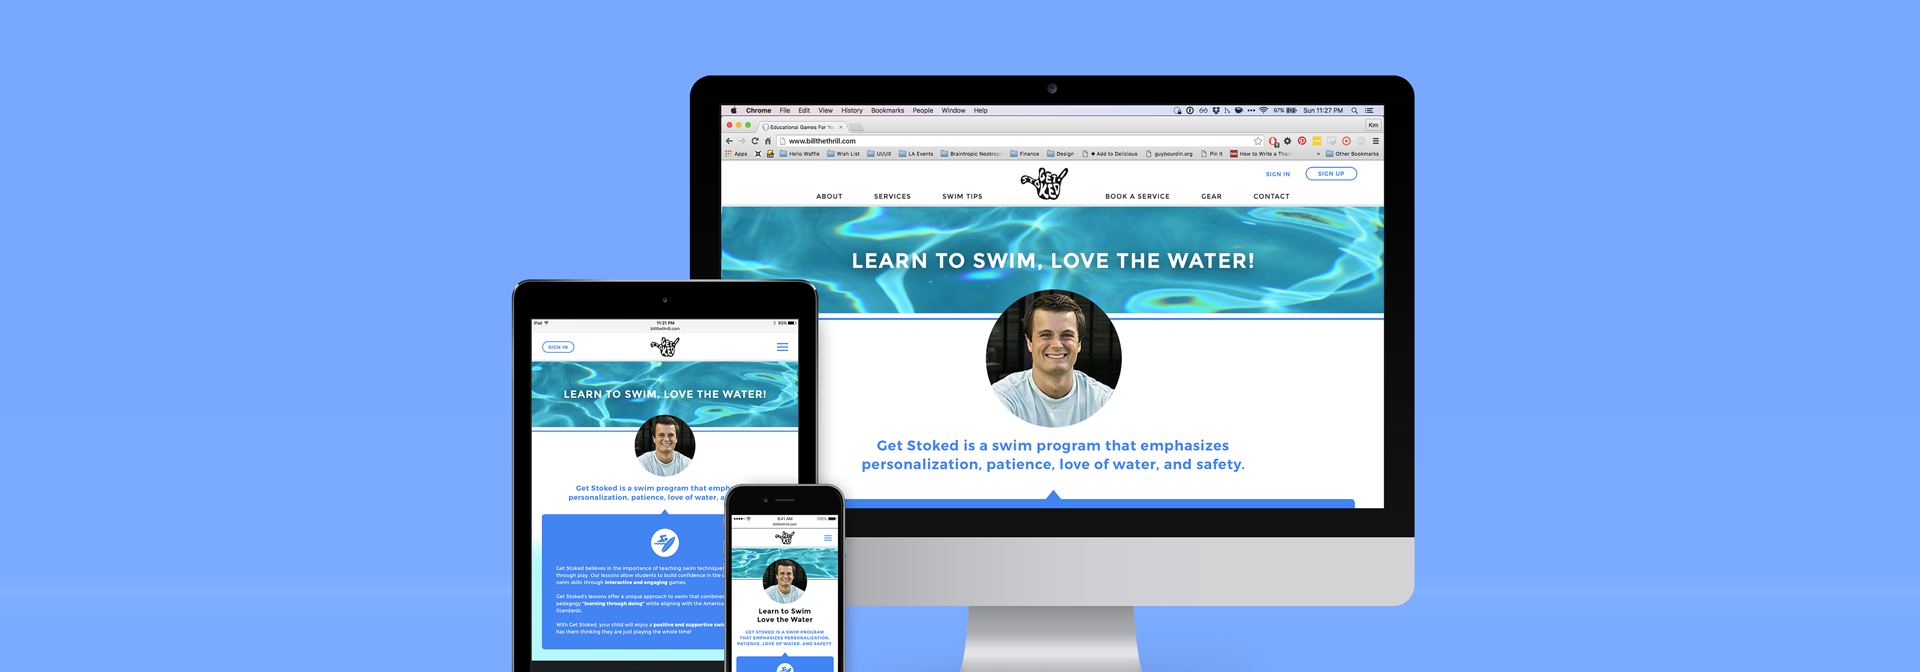
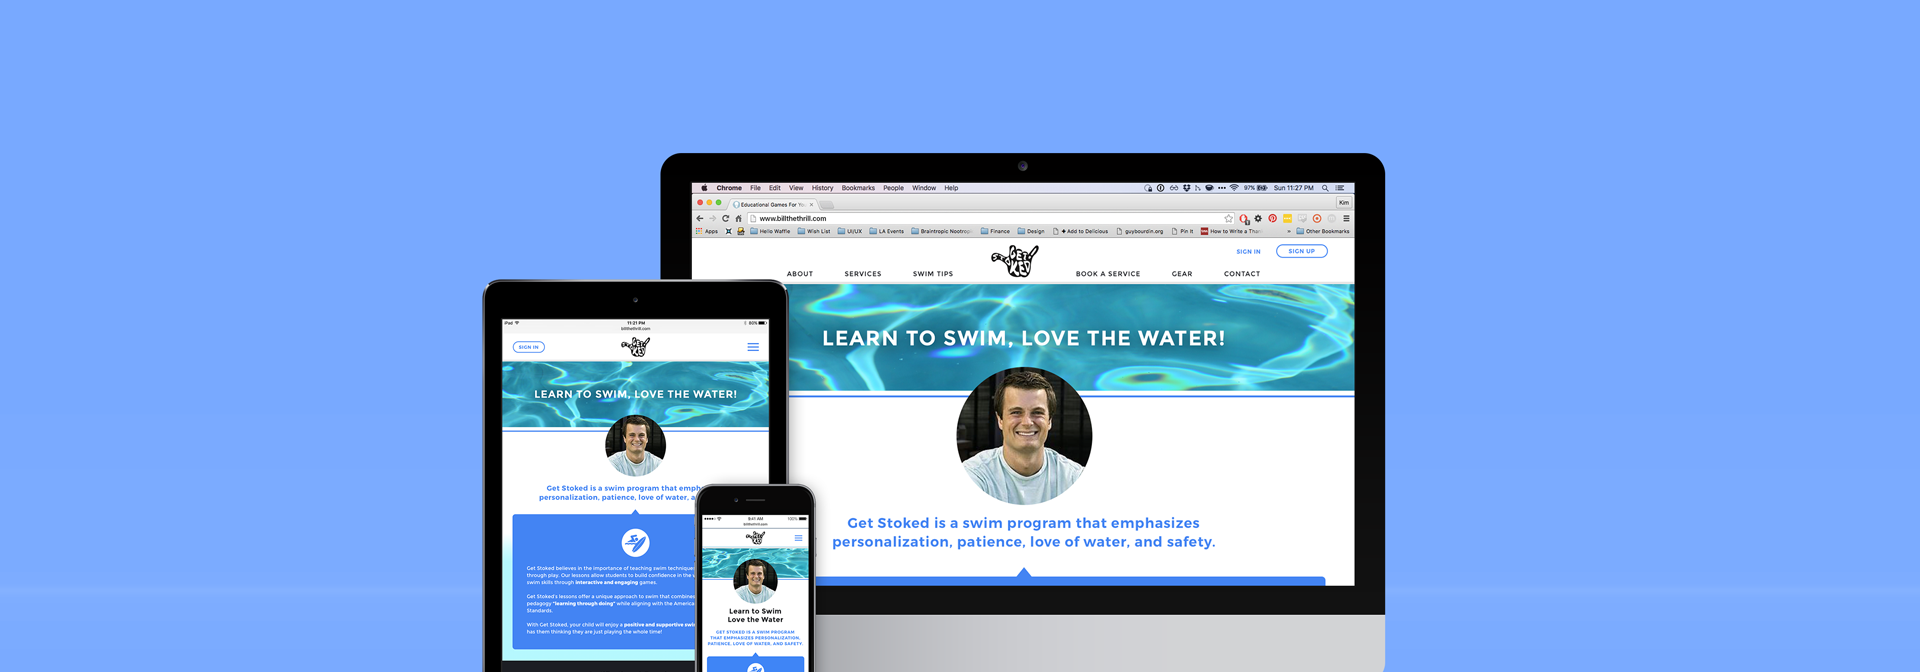
Add images, change background color for get stoked

diff --git a/portfolio/get-stoked.html b/portfolio/get-stoked.html
@@ -4,10 +4,10 @@ layout: default
 
 <header class="page-header marbles-header">
   <div class="background-image-holder parallax-background hidden-xs">
-    <img class="background-image" alt="Background Image" src="{{ '/assets/images/business/P3-mobile-trip-header.jpg' | prepend: site.baseurl }}">
+    <img class="background-image" alt="Background Image" src="{{ '/assets/images/getstoked/P5-All-Devices-Header_2.png' | prepend: site.baseurl }}">
   </div>
   <div class="background-image-holder visible-xs">
-    <img class="background-image" alt="Background Image" src="{{ '/assets/images/business/P3-mobile-trip-header-mobile.jpg' | prepend: site.baseurl }}">
+    <img class="background-image" alt="Background Image" src="{{ '/assets/images/getstoked/P5-All-Devices-Header_2-Mobile.png' | prepend: site.baseurl }}">
   </div>
 </header>
 
@@ -31,7 +31,7 @@ layout: default
   <div class="container">
     <div class="row">
       <div class="col-xs-12 col-md-6 text-center left-column">
-        <video autoplay="true" loop="true" height="700" poster="{{ '/assets/images/business/P3-mobile-single-nobkgd.png' | prepend: site.baseurl }}">
+        <video autoplay="true" loop="true" height="700" poster="{{ '/assets/images/getstoked/P5-mobile-single-nobkgd.png' | prepend: site.baseurl }}">
             <!-- <source type="video/webm" src="{{ '/assets/videos/marbles-the-brain-store/P2-mobile-single-gif-KEYFRAMED.webm' | prepend: site.baseurl }}"> -->
             <!-- <source type="video/ogg" src="{{ '/assets/videos/marbles-the-brain-store/P2-mobile-single-gif-KEYFRAMED.ogv' | prepend: site.baseurl }}"> -->
             <!-- <source type="video/mp4" src="{{ '/assets/videos/marbles-the-brain-store/P2-mobile-single-gif-KEYFRAMED.mp4' | prepend: site.baseurl }}"> -->
@@ -58,7 +58,7 @@ layout: default
   </div>
 </section>
 
-<section class="primary-features duplicatable-content business-pleasure-bg-color">
+<section class="primary-features duplicatable-content stoked-bg-color">
   <div class="container">
     <div class="row">
 
@@ -132,7 +132,7 @@ layout: default
               <div class="row">
                 <div class="col-xs-2 col-lg-1">
                   <div class="icon-holder">
-                    <i class="icon icon-documents business-pleasure-text-color"></i>
+                    <i class="icon icon-documents stoked-text-color"></i>
                   </div>
                 </div>
                 <div class="col-xs-10 col-lg-11">
@@ -152,7 +152,7 @@ layout: default
               <div class="row">
                 <div class="col-xs-2 col-lg-1">
                   <div class="icon-holder">
-                    <i class="icon icon-quote business-pleasure-text-color"></i>
+                    <i class="icon icon-quote stoked-text-color"></i>
                   </div>
                 </div>
                 <div class="col-xs-10 col-lg-11">
@@ -190,7 +190,7 @@ layout: default
               <div class="row">
                 <div class="col-xs-2 col-lg-1">
                   <div class="icon-holder">
-                    <i class="icon icon-chat business-pleasure-text-color"></i>
+                    <i class="icon icon-chat stoked-text-color"></i>
                   </div>
                 </div>
                 <div class="col-xs-10 col-lg-11">
@@ -209,7 +209,7 @@ layout: default
               <div class="row">
                 <div class="col-xs-2 col-lg-1">
                   <div class="icon-holder">
-                    <i class="icon icon-cloud business-pleasure-text-color"></i>
+                    <i class="icon icon-cloud stoked-text-color"></i>
                   </div>
                 </div>
                 <div class="col-xs-10 col-lg-11">
@@ -274,7 +274,7 @@ layout: default
             <div class="row">
               <div class="col-xs-2 col-lg-1">
                 <div class="icon-holder">
-                  <i class="icon icon-profile-female business-pleasure-text-color"></i>
+                  <i class="icon icon-profile-female stoked-text-color"></i>
                 </div>
               </div>
               <div class="col-xs-10 col-lg-11">
@@ -300,7 +300,7 @@ layout: default
             <div class="row">
               <div class="col-xs-2 col-lg-1">
                 <div class="icon-holder">
-                  <i class="icon icon-linegraph business-pleasure-text-color"></i>
+                  <i class="icon icon-linegraph stoked-text-color"></i>
                 </div>
               </div>
               <div class="col-xs-10 col-lg-11">
@@ -351,7 +351,7 @@ layout: default
                 <div class="row">
                   <div class="col-xs-2 col-lg-1">
                     <div class="icon-holder">
-                      <i class="icon icon-layers business-pleasure-text-color"></i>
+                      <i class="icon icon-layers stoked-text-color"></i>
                     </div>
                   </div>
                   <div class="col-xs-10 col-lg-11">
@@ -402,7 +402,7 @@ layout: default
               <div class="row">
                 <div class="col-xs-2 col-lg-1">
                   <div class="icon-holder">
-                    <i class="icon icon-desktop business-pleasure-text-color"></i>
+                    <i class="icon icon-desktop stoked-text-color"></i>
                   </div>
                 </div>
                 <div class="col-xs-10 col-lg-11">
@@ -426,7 +426,7 @@ layout: default
               <div class="row">
                 <div class="col-xs-2 col-lg-1">
                   <div class="icon-holder">
-                    <i class="icon icon-telescope business-pleasure-text-color"></i>
+                    <i class="icon icon-telescope stoked-text-color"></i>
                   </div>
                 </div>
                 <div class="col-xs-10 col-lg-11">

diff --git a/_sass/_portfolio.scss b/_sass/_portfolio.scss
@@ -39,3 +39,12 @@
 .marbles-text-color {
     color: #4596b3 !important;
 }
+
+
+.stoked-bg-color {
+    background-color: #3d6ec1 !important;
+}
+
+.stoked-text-color {
+    color: #3d6ec1 !important;
+}
